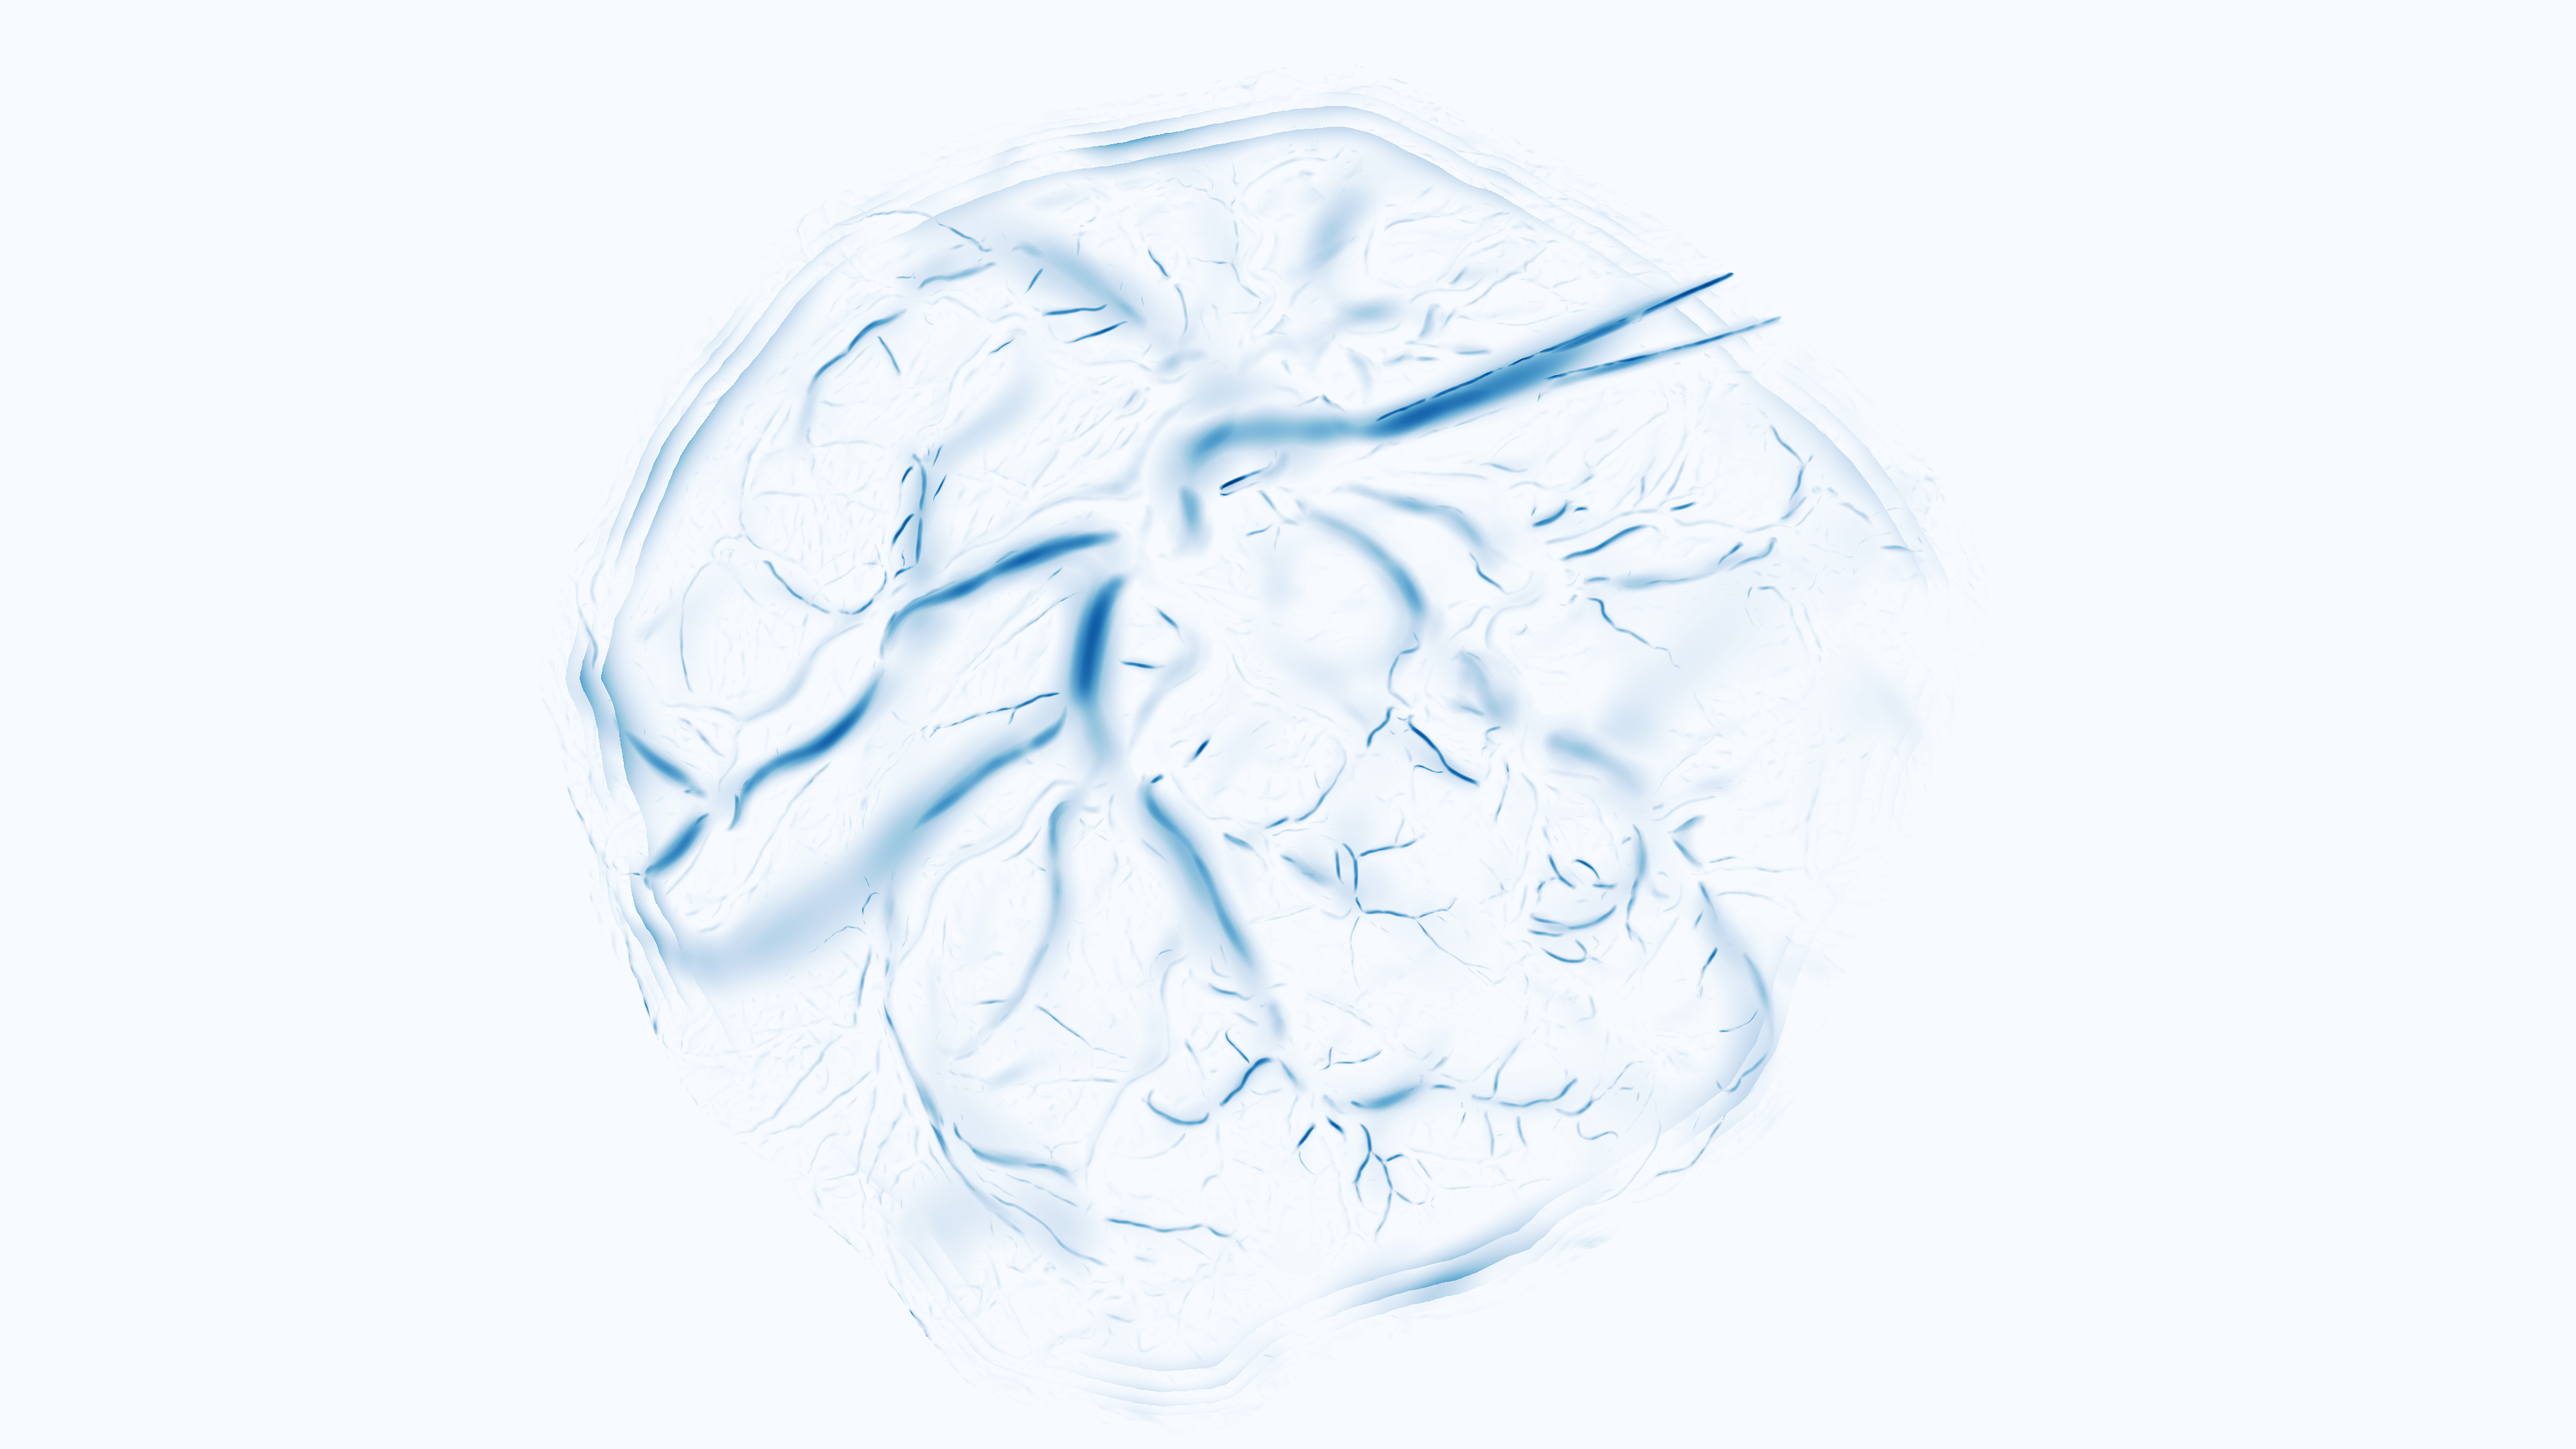
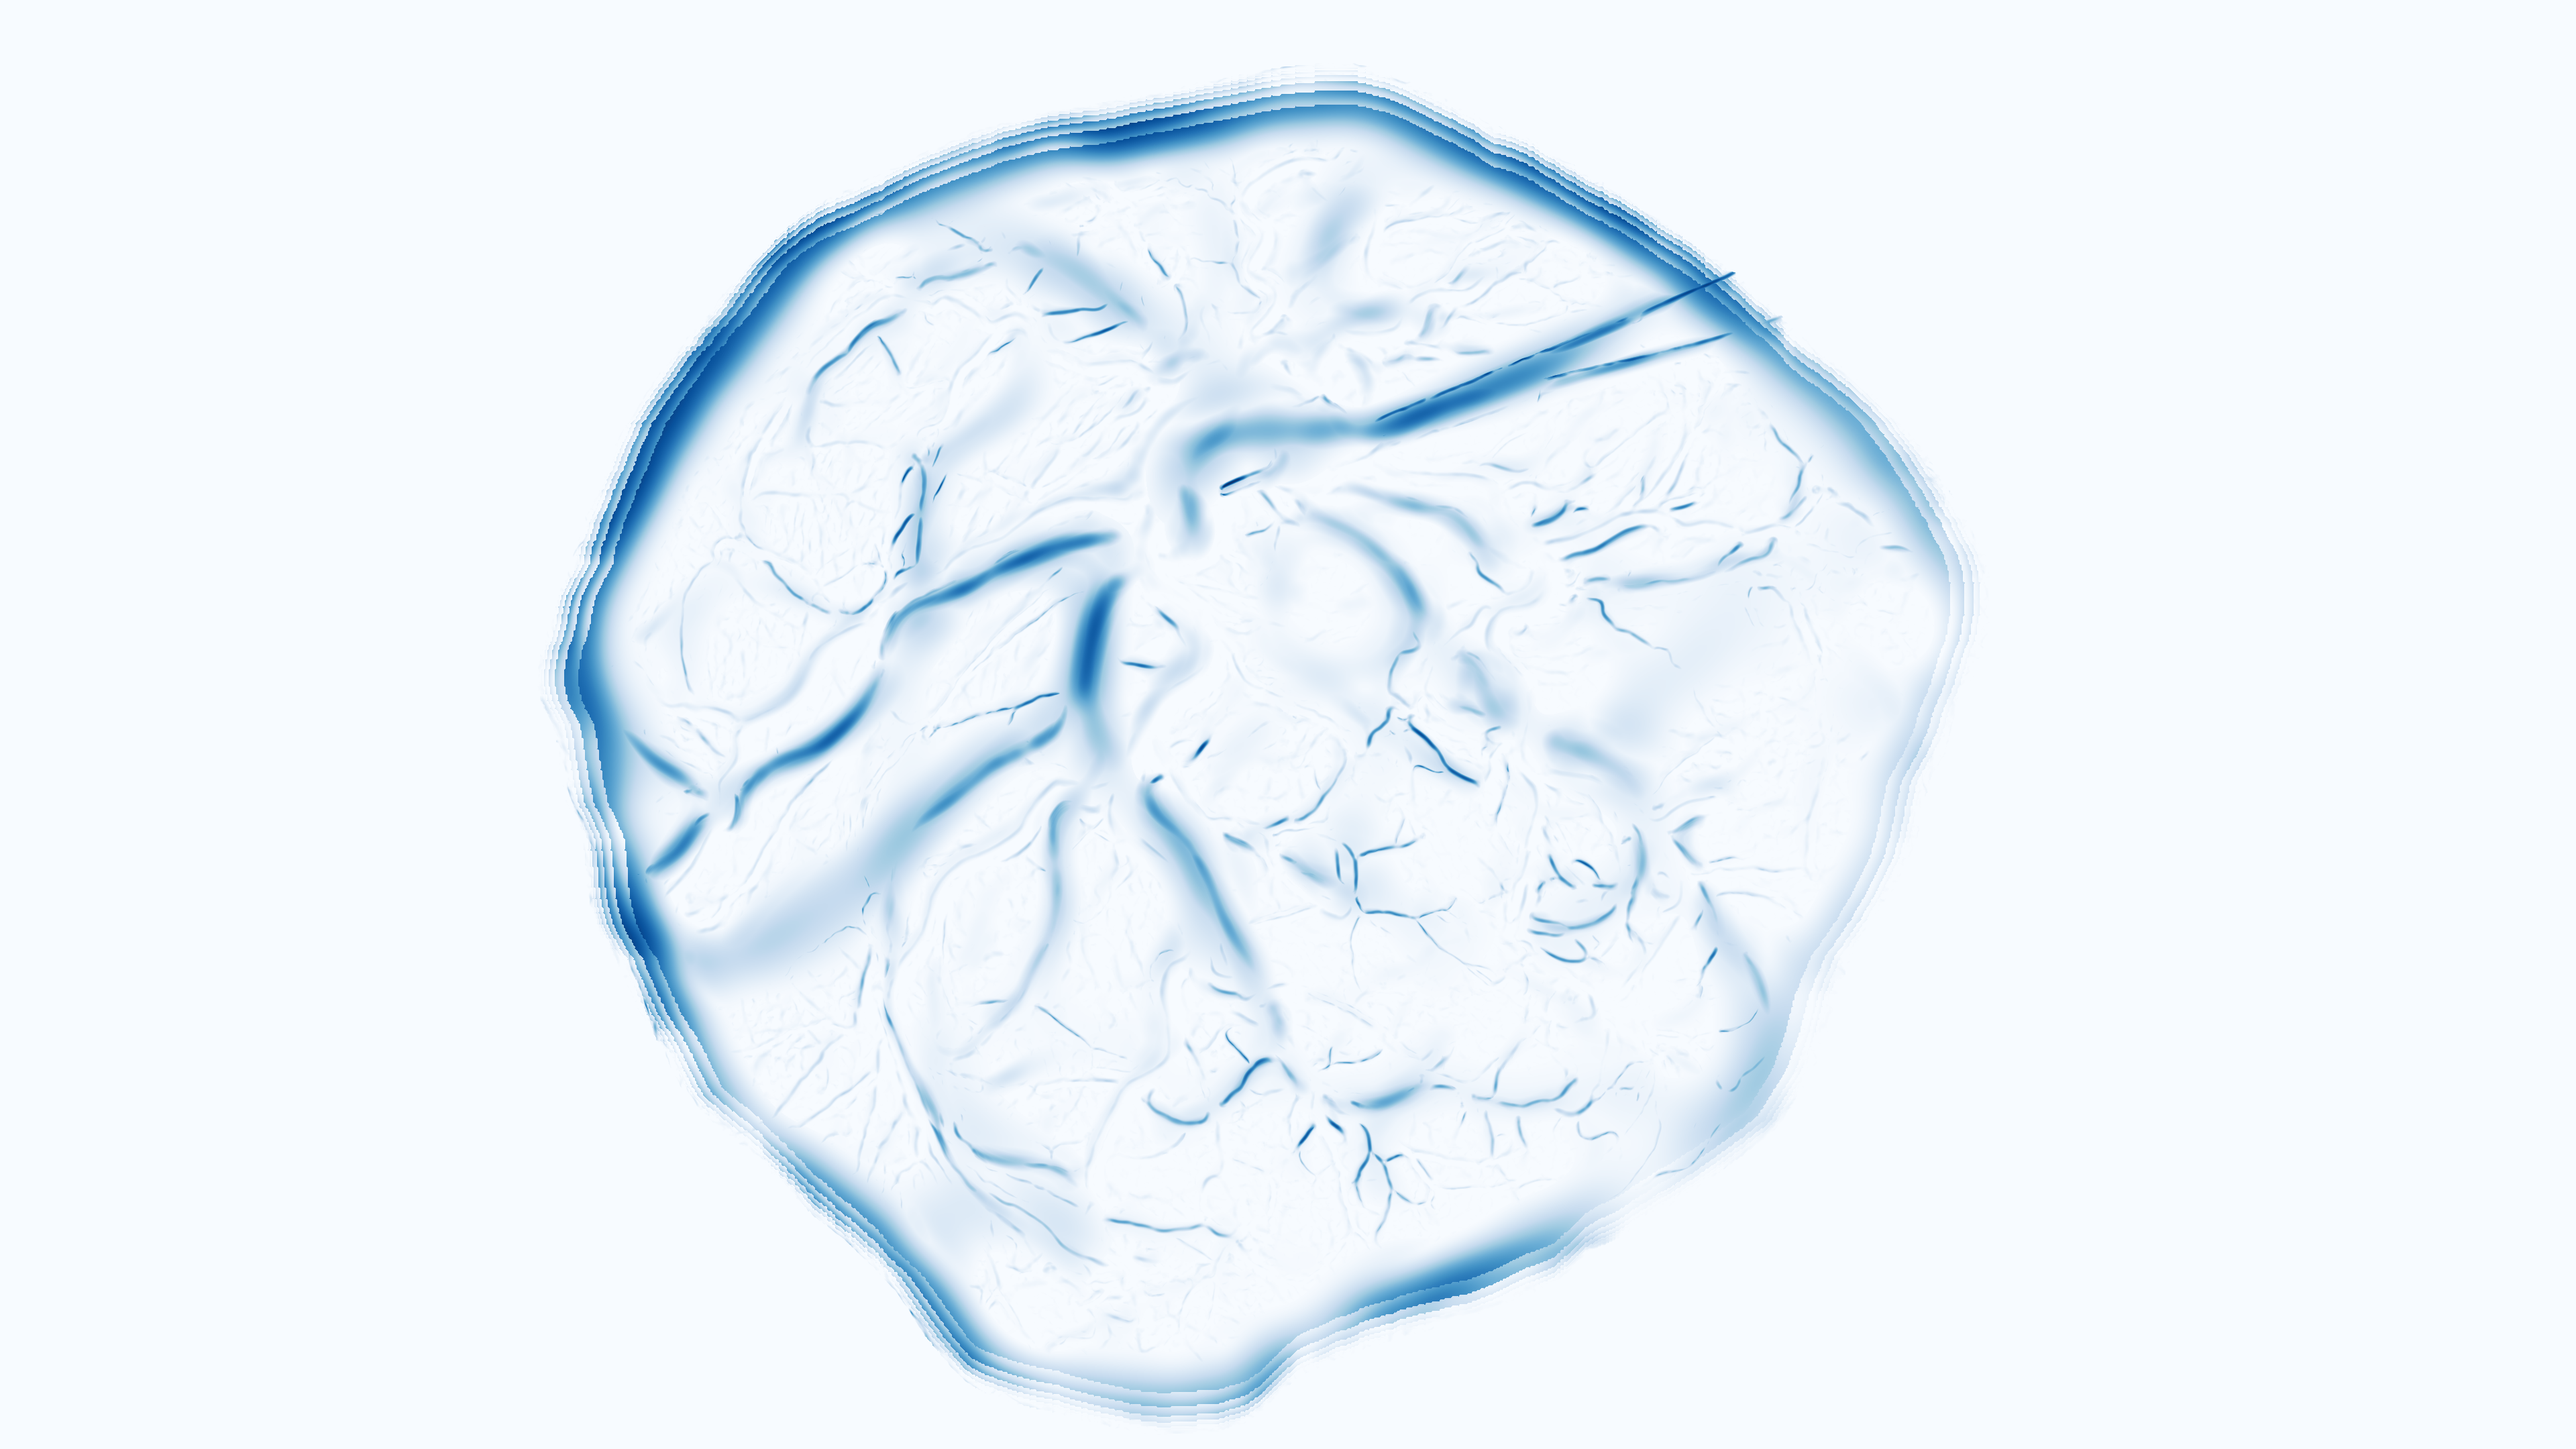
way faster binary dilation of masks

Changed region(s): [[0.2188, 0.031, 0.7812, 0.9926], [0.6562, 0.6204, 0.7188, 0.8065], [0.7188, 0.4653, 0.75, 0.6204]]

diff --git a/pcsvn.py b/pcsvn.py
@@ -13,7 +13,7 @@ from skimage.morphology import label, skeletonize, disk, binary_erosion, convex_
 from skimage.segmentation import find_boundaries
 
 
-def make_multiscale(img, scales, betas, gammas, find_principal_directions=False, VERBOSE=True):
+def make_multiscale(img, scales, betas, gammas, find_principal_directions=False, VERBOSE=True, trim_first=False):
     """returns an ordered list of dictionaries for each scale
     multiscale.append(
         {'sigma': sigma,
@@ -32,6 +32,11 @@ def make_multiscale(img, scales, betas, gammas, find_principal_directions=False,
     multiscale = list()
 
     for i, sigma, beta, gamma in zip(range(len(scales)), scales, betas, gammas):
+
+        if trim_first:
+            radius = int(sigma)
+            print('dilating plate for σ={}'.format(radius))
+            img = dilate_plate(img, radius=radius, plate_mask=img.mask)
 
         if VERBOSE:
             print('σ={}'.format(sigma))
@@ -145,8 +150,14 @@ def erode_plate(img, erosion_radius=20, plate_mask=None):
     # find convex hull of mask (make erosion calculation easier)
     plate_mask = np.invert(convex_hull_image(plate_mask))
 
-    selem = disk(erosion_radius)
-
+    # this is much faster than a disk. a plus sign might be better even.
+    #selem = square(erosion_radius)
+    # also this correctly has erosion radius as the RADIUS!
+    # input for square() and disk() is the diameter!
+    selem = np.zeros((erosion_radius*2 + 1, erosion_radius*2 + 1),
+                        dtype='bool')
+    selem[erosion_radius,:] = 1
+    selem[:,erosion_radius] = 1
     eroded_mask = binary_erosion(plate_mask, selem=selem)
 
     # this is by default additive with whatever
@@ -171,10 +182,19 @@ def dilate_plate(img, radius=10, plate_mask=None):
 
     # this is extremely inefficient. can it just convolve around
     # the loop and skip convolving areas where everything is 0?
-    extra_mask = binary_dilation(perimeter, selem=disk(radius))
+    # maskpad = binary_dilation(perimeter, selem=disk(radius))
 
+    # THIS IS WAY BETTER!
+    maskpad = np.zeros_like(perimeter)
+    for i,j in np.argwhere(perimeter):
+        # just make a cross shape on each of those points
+        maskpad[i-radius:i+radius,j] = 1
+        maskpad[i,j-radius:j+radius] = 1
+
+    new_mask = np.bitwise_or(maskpad, plate_mask)
     # this is by default additive with whatever mask img already has
-    return ma.masked_array(img, mask=extra_mask)
+    # unless it's not...?
+    return ma.masked_array(img, mask=new_mask)
 #################################################################
 #### MAIN LOOP ##################################################
 #################################################################
@@ -197,6 +217,8 @@ filename = 'NYMH_ID130016i.png'
 raw_img = get_named_placenta(filename, maskfile=None)
 
 ###Do preprocessing (e.g. clahe)###############
+
+EARLY_TRIM=False
 
 print('Note: no preprocessing is done anymore.')
 img =  raw_img
@@ -229,7 +251,8 @@ print("gammas will be calculated as half of hessian norm")
 # Multiscale Frangi Filter
 
 multiscale = make_multiscale(img, scales, betas, gammas,
-                             find_principal_directions=False)
+                             find_principal_directions=False,
+                             trim_first=EARLY_TRIM)
 
 #with open('barium2_multiscale_171024.pkl', 'rb') as f:
     #multiscale = pickle.load(f)
@@ -237,13 +260,16 @@ multiscale = make_multiscale(img, scales, betas, gammas,
 # Process Multiscale Targets
 
 # fix targets misreported on edge of plate
-print('trimming collars of plates (per scale)')
 
-for i in range(len(multiscale)):
-    f, radius = multiscale[i]['F'], int(multiscale[i]['sigma']*1.5)
-    print('dilating plate for σ={}'.format(radius))
-    f = dilate_plate(f, radius=radius, plate_mask=img.mask)
-    multiscale[i]['F'] = f.filled(0)
+if not EARLY_TRIM:
+    print('trimming collars of plates (per scale)')
+
+    for i in range(len(multiscale)):
+        f, radius = multiscale[i]['F'], int(multiscale[i]['sigma'])
+        print('dilating plate for σ={}'.format(radius))
+        f = dilate_plate(f, radius=radius, plate_mask=img.mask)
+        multiscale[i]['F'] = f.filled(0)
+
 
 # Extract Multiscale Features
 
@@ -259,9 +285,10 @@ F_max = F_all.max(axis=-1)
 if ma.is_masked(img):
     F_max = ma.masked_array(F_max, mask=img.mask)
 
+# is the frangi vesselness measure strong enough
 F_cumulative = (F_max > alpha)
 
-
+# where there's any match at all (LOOK INTO THIS)
 matched_all = match_on_skeleton(F_cumulative, F_all)
 
 # Process Composite ###############################3
@@ -287,8 +314,12 @@ if __name__ == "__main__":
 
     import matplotlib.pyplot as plt
     import os.path
-    # use a colorscheme where you can see each later clearly
 
+    from get_placenta import show_mask as mimshow
+    show = plt.show
+    imshow = plt.imshow
+
+    # use a colorscheme where you can see each later clearly
     plt.imshow(wheres, cmap=plt.cm.tab20b)
     plt.colorbar()
     plt.show()
@@ -300,6 +331,6 @@ if __name__ == "__main__":
     plt.imsave(base +'_skel.png', skeletonize(F_cumulative.filled(0)),
                cmap=plt.cm.gray)
     plt.imsave(base +'_fmax_thresh.png', F_cumulative.filled(0),
-               cmap=plt.cm.Blues)
 
-
+    # list of each scale's frangi targets for easier introspection
+    Fs = [F_all[:,:,j] for j in range(F_all.shape[-1])]
